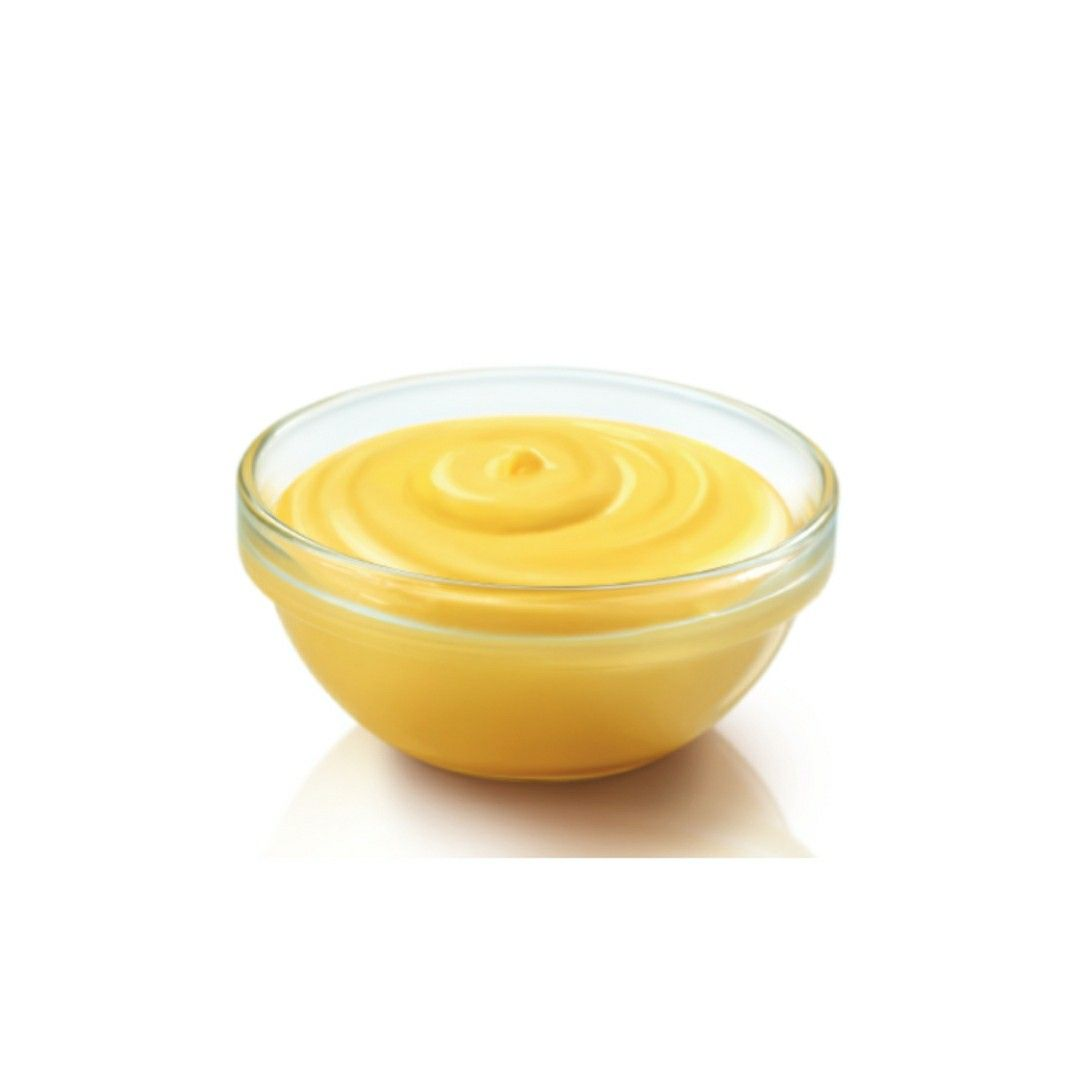
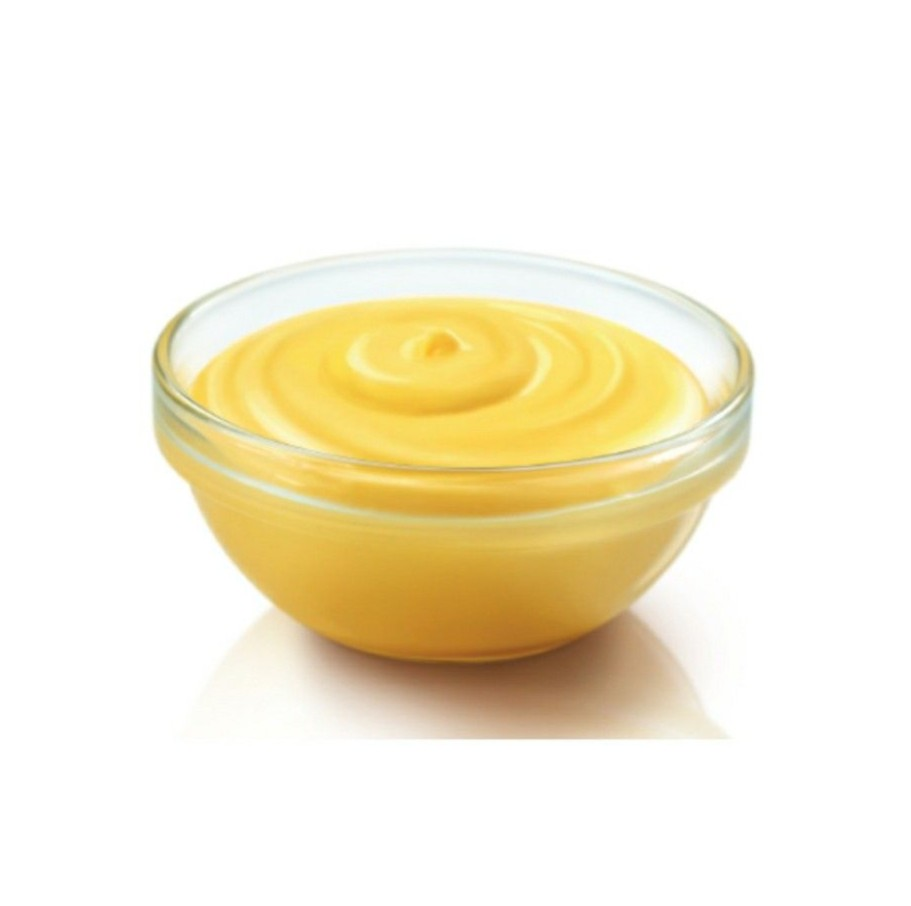
14-05-2026 (5)

Changed region(s): [[0.1537, 0.2781, 0.8299, 0.8344]]

diff --git a/style.css b/style.css
@@ -1,5 +1,5 @@
 :root {
-  --primary: #b8860b;
+  --primary: #facc15;
   --bg: #010101;
 }
 
@@ -60,14 +60,14 @@ body {
   border-radius: 10px;
   transition: 0.3s;
   background: rgba(0, 0, 0, 0.5);
-  color: #facc15;
-  border: 2px solid #facc15;
+  color: var(--primary);
+  border: 2px solid var(--primary);
   backdrop-filter: blur(3px);
 }
 
 .hero .btn:hover {
-  background: #facc15;
-  color: black;
+  background: var(--primary);
+  color: var(--bg);
 }
 
 .hero .content {
@@ -199,7 +199,7 @@ body {
 }
 
 .footer-link:hover {
-  color: #facc15;
+  color: var(--primary);
   transform: translateX(5px);
 }
 
@@ -227,6 +227,8 @@ body {
     padding: 18px;
   }
 }
+
+/* cart.html */
 
 .cart-section {
   padding-top: 120px;

diff --git a/index.html b/index.html
@@ -182,7 +182,7 @@
                     <img src="img/nasi.jpg" class="card-img-top" alt="Nasi" />
 
                     <div class="card-body d-flex flex-column text-center">
-                      <h3 class="card-title">Nasi</h3>
+                      <h3 class="card-title">Rice</h3>
 
                       <p class="card-text">Nasi Putih Hangat</p>
 
